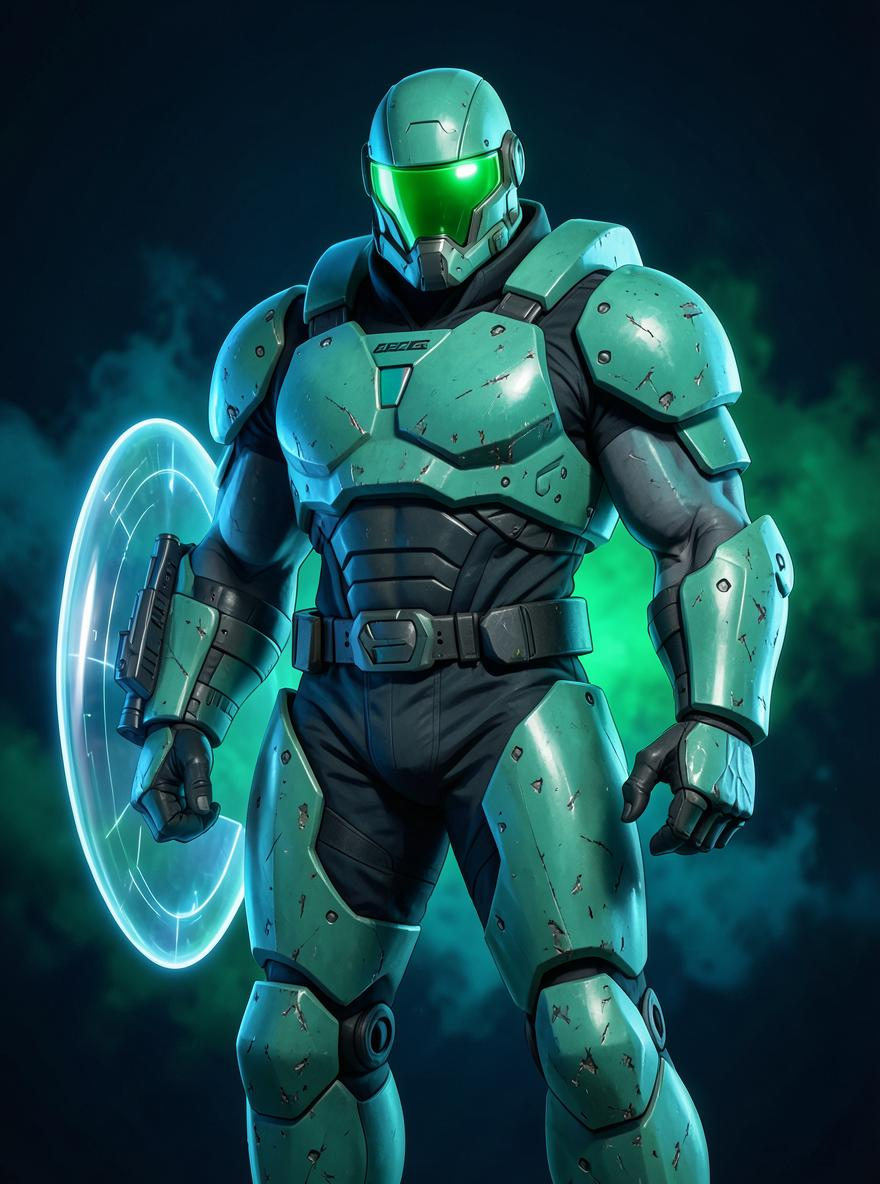
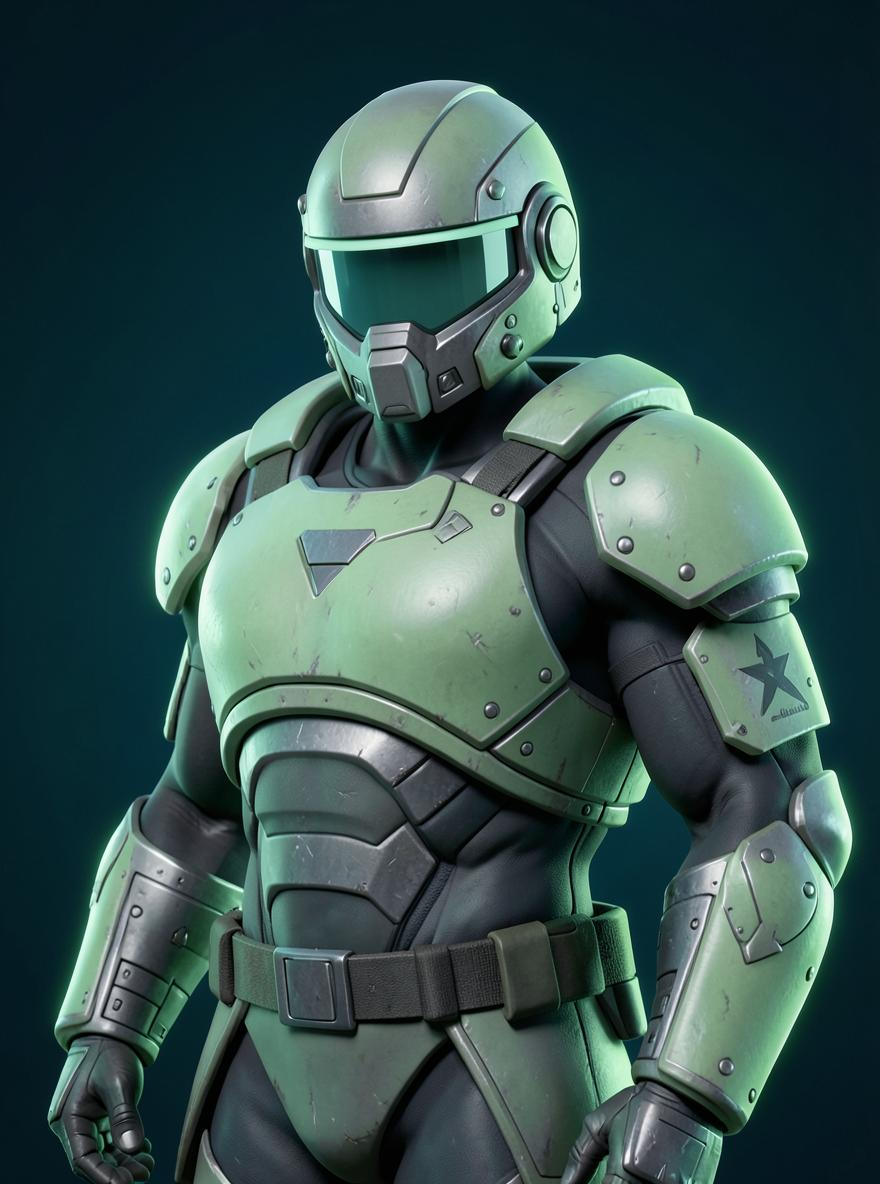
fix: 캐릭터를 전술 헬멧 스타일로 교체하고 소총 그립 자세 수정
얼굴이 드러나던 캐릭터를 팀 컬러 방어구와 밀폐형 헬멧으로 바꾸고 로비 초상화도 같은 방향으로 교체한다. 실제 경기에서 소총이 손에서 떠 보이던 문제를 어깨·팔꿈치·손 관절 자세와 총 위치 조정으로 고친다.

🤖 Generated with Codebuff

diff --git a/client/main.js b/client/main.js
@@ -644,68 +644,126 @@ function makeTxtSprite(text, color, size) {
 
 /* ------------- 리모트 플레이어 ------------- */
 
+const AGENT_ACCENT = {
+  vanguard: 0x58d7ff,
+  rush: 0xff8a5c,
+  guard: 0x6ef0b0,
+  venom: 0xb98cff,
+};
+
 function makePlayerMesh(p) {
   const group = new THREE.Group();
-  const teamCol = new THREE.Color(TEAM_COLOR[p.team]);
-  const pCol = new THREE.Color().setHSL(((p.playerColor || 0) % 360) / 360, 0.7, 0.6);
+  const charId = p.charId || "vanguard";
+  const teamCol = new THREE.Color(TEAM_COLOR[p.team] || TEAM_COLOR.blue);
+  const accentCol = new THREE.Color(AGENT_ACCENT[charId] || 0x7fe7ff);
+  const bulk = charId === "guard" ? 1.1 : charId === "rush" ? 0.94 : 1;
   const armorMat = new THREE.MeshStandardMaterial({
-    color: teamCol.clone().multiplyScalar(0.72), roughness: 0.55, metalness: 0.35,
+    color: teamCol.clone().lerp(new THREE.Color(0xffffff), 0.2).multiplyScalar(0.84),
+    roughness: 0.62, metalness: 0.22,
   });
-  const darkMat = new THREE.MeshStandardMaterial({ color: 0x1b2430, roughness: 0.8, metalness: 0.2 });
+  const plateMat = new THREE.MeshStandardMaterial({
+    color: teamCol.clone().lerp(new THREE.Color(0xffffff), 0.38).multiplyScalar(0.92),
+    roughness: 0.5, metalness: 0.28,
+  });
+  const darkMat = new THREE.MeshStandardMaterial({ color: 0x1a2330, roughness: 0.82, metalness: 0.12 });
   const accentMat = new THREE.MeshStandardMaterial({
-    color: pCol, roughness: 0.45, metalness: 0.35,
-    emissive: pCol.clone().multiplyScalar(0.35), emissiveIntensity: 1,
+    color: accentCol, roughness: 0.4, metalness: 0.35,
+    emissive: accentCol.clone().multiplyScalar(0.2), emissiveIntensity: 0.8,
   });
-  const skinMat = new THREE.MeshStandardMaterial({ color: 0xd8b28a, roughness: 0.9, metalness: 0 });
-  const visorMat = new THREE.MeshBasicMaterial({ color: 0x7fe7ff });
+  const visorMat = new THREE.MeshStandardMaterial({
+    color: accentCol.clone().lerp(new THREE.Color(0xffffff), 0.2),
+    emissive: accentCol, emissiveIntensity: 0.55, roughness: 0.22, metalness: 0.55,
+  });
   const cyl = (rt, rb, h, seg, mat) => new THREE.Mesh(new THREE.CylinderGeometry(rt, rb, h, seg), mat);
 
-  // 다리 / 부츠
+  // 다리 / 무릎·정강이 플레이트 / 부츠 — 피부가 드러나는 부분 없이 전술화한다.
   for (const sx of [-0.17, 0.17]) {
-    const leg = cyl(0.115, 0.14, 0.58, 8, darkMat);
-    leg.position.set(sx, 0.34, 0);
-    const boot = meshBox(0.23, 0.13, 0.34, darkMat);
-    boot.position.set(sx, 0.065, 0.06);
-    const knee = meshBox(0.2, 0.12, 0.22, armorMat);
-    knee.position.set(sx, 0.54, 0.05);
-    group.add(leg, boot, knee);
+    const thigh = cyl(0.13, 0.15, 0.3, 10, darkMat); thigh.position.set(sx, 0.6, 0);
+    const thighPlate = meshBox(0.18, 0.24, 0.16, armorMat); thighPlate.position.set(sx, 0.62, 0.08);
+    const shin = cyl(0.095, 0.12, 0.34, 10, darkMat); shin.position.set(sx, 0.28, 0);
+    const shinPlate = meshBox(0.19, 0.3, 0.16, armorMat); shinPlate.position.set(sx, 0.3, 0.075);
+    const knee = meshBox(0.19, 0.1, 0.21, plateMat); knee.position.set(sx, 0.47, 0.075);
+    const boot = meshBox(0.22, 0.13, 0.35, darkMat); boot.position.set(sx, 0.065, 0.06);
+    const bootCap = meshBox(0.18, 0.06, 0.18, plateMat); bootCap.position.set(sx, 0.1, 0.1);
+    group.add(thigh, thighPlate, shin, shinPlate, knee, boot, bootCap);
   }
 
   // 힙 / 몸통 / 가슴 플레이트
-  const hips = meshBox(0.46, 0.18, 0.3, darkMat); hips.position.y = 0.64;
-  const torso = cyl(0.27, 0.34, 0.58, 8, armorMat); torso.position.y = 0.96;
-  const chest = meshBox(0.56, 0.34, 0.32, armorMat); chest.position.set(0, 1.02, 0.07);
-  const chestGlow = meshBox(0.18, 0.22, 0.02, accentMat); chestGlow.position.set(0, 1.02, 0.24);
-  const belt = meshBox(0.48, 0.07, 0.31, accentMat); belt.position.y = 0.74;
-  group.add(hips, torso, chest, chestGlow, belt);
+  const hips = meshBox(0.48, 0.18, 0.3, darkMat); hips.position.y = 0.7;
+  const pelvisPlate = meshBox(0.34, 0.14, 0.06, plateMat); pelvisPlate.position.set(0, 0.67, 0.24);
+  const torso = cyl(0.22, 0.27, 0.58, 10, darkMat); torso.position.y = 1.04;
+  const chest = meshBox(0.56 * bulk, 0.38, 0.34, armorMat); chest.position.set(0, 1.08, 0.12);
+  const abdomen = meshBox(0.38, 0.2, 0.26, plateMat); abdomen.position.set(0, 0.82, 0.13);
+  const chestStripe = meshBox(0.07, 0.24, 0.03, accentMat); chestStripe.position.set(0, 1.08, 0.3);
+  const belt = meshBox(0.5, 0.06, 0.4, accentMat); belt.position.set(0, 0.78, 0.09);
+  const collar = cyl(0.15, 0.19, 0.12, 10, darkMat); collar.position.y = 1.34;
+  group.add(hips, pelvisPlate, torso, chest, abdomen, chestStripe, belt, collar);
 
-  // 어꺠 / 팔 / 장갑
-  for (const sx of [-1, 1]) {
-    const shoulder = new THREE.Mesh(new THREE.SphereGeometry(0.125, 10, 8), armorMat);
-    shoulder.position.set(sx * 0.35, 1.2, 0);
-    const shoulderGlow = meshBox(0.1, 0.035, 0.12, accentMat);
-    shoulderGlow.position.set(sx * 0.35, 1.31, 0.03);
-    const arm = cyl(0.07, 0.085, 0.46, 8, darkMat);
-    arm.position.set(sx * 0.4, 0.93, 0.02);
-    arm.rotation.z = sx * 0.12;
-    const glove = meshBox(0.1, 0.11, 0.13, darkMat);
-    glove.position.set(sx * 0.42, 0.7, 0.06);
-    group.add(shoulder, shoulderGlow, arm, glove);
+  // 어깨 / 소총을 든 팔 / 장갑 — 손이 총의 그립과 핸드가드에 닿도록 관절을 잡는다.
+  const joint = (x, y, z) => new THREE.Vector3(x, y, z);
+  const limb = (a, b, rt, rb, mat) => {
+    const dir = new THREE.Vector3().subVectors(b, a);
+    const len = Math.max(0.01, dir.length());
+    const mesh = new THREE.Mesh(new THREE.CylinderGeometry(rt, rb, len, 8), mat);
+    mesh.position.copy(a).add(b).multiplyScalar(0.5);
+    mesh.quaternion.setFromUnitVectors(new THREE.Vector3(0, 1, 0), dir.normalize());
+    return mesh;
+  };
+  const rightShoulder = joint(0.36 * bulk, 1.24, 0);
+  const rightElbow = joint(0.43 * bulk, 1.07, 0.08);
+  const rightHand = joint(0.16, 1.0, 0.3);
+  const leftShoulder = joint(-0.36 * bulk, 1.24, 0);
+  const leftElbow = joint(-0.4 * bulk, 1.04, 0.13);
+  const leftHand = joint(-0.1, 0.99, 0.48);
+  for (const [side, shoulderPos, elbowPos, handPos] of [
+    [1, rightShoulder, rightElbow, rightHand],
+    [-1, leftShoulder, leftElbow, leftHand],
+  ]) {
+    const shoulder = new THREE.Mesh(new THREE.SphereGeometry(0.145, 12, 10), armorMat);
+    shoulder.position.copy(shoulderPos); shoulder.scale.setScalar(bulk);
+    const pad = meshBox(0.24 * bulk, 0.09, 0.25, plateMat);
+    pad.position.copy(shoulderPos); pad.position.y += 0.07;
+    const shoulderGlow = meshBox(0.09, 0.03, 0.12, accentMat);
+    shoulderGlow.position.copy(shoulderPos); shoulderGlow.position.z += 0.07;
+    const upperArm = limb(shoulderPos, elbowPos, 0.065, 0.075, darkMat);
+    const elbow = new THREE.Mesh(new THREE.SphereGeometry(0.075, 10, 8), plateMat);
+    elbow.position.copy(elbowPos);
+    const forearm = limb(elbowPos, handPos, 0.055, 0.07, armorMat);
+    const glove = meshBox(0.1, 0.1, 0.14, darkMat); glove.position.copy(handPos);
+    group.add(shoulder, pad, shoulderGlow, upperArm, elbow, forearm, glove);
   }
 
-  // 목 / 헤드 / 헬멧 / 발광 바이저
-  const neck = cyl(0.09, 0.1, 0.12, 8, skinMat); neck.position.y = 1.3;
-  const head = new THREE.Mesh(new THREE.SphereGeometry(0.17, 12, 10), skinMat); head.position.y = 1.48;
-  const helmet = new THREE.Mesh(new THREE.SphereGeometry(0.195, 12, 10), armorMat);
-  helmet.position.set(0, 1.51, -0.02); helmet.scale.y = 0.9;
-  const visor = meshBox(0.3, 0.1, 0.12, visorMat); visor.position.set(0, 1.48, 0.15);
-  const visorFrame = meshBox(0.34, 0.13, 0.02, darkMat); visorFrame.position.set(0, 1.48, 0.09);
-  group.add(neck, head, helmet, visor, visorFrame);
+  // 목 / 완전 밀폐형 헬멧 / 좁은 바이저 — 얼굴과 피부를 노출하지 않는다.
+  const neck = cyl(0.1, 0.12, 0.12, 10, darkMat); neck.position.y = 1.36;
+  const helmet = new THREE.Mesh(new THREE.SphereGeometry(0.195, 16, 12), armorMat);
+  helmet.position.set(0, 1.52, -0.01); helmet.scale.set(1.03, 1.02, 1.03);
+  const visorFrame = meshBox(0.29, 0.11, 0.06, darkMat); visorFrame.position.set(0, 1.54, 0.16);
+  const visor = meshBox(0.24, 0.06, 0.035, visorMat); visor.position.set(0, 1.545, 0.19);
+  const brow = meshBox(0.3, 0.055, 0.07, plateMat); brow.position.set(0, 1.61, 0.13);
+  const jaw = meshBox(0.22, 0.1, 0.09, plateMat); jaw.position.set(0, 1.43, 0.145);
+  const crest = meshBox(0.045, 0.025, 0.2, accentMat); crest.position.set(0, 1.7, -0.02);
+  for (const sx of [-1, 1]) {
+    const ear = cyl(0.06, 0.06, 0.045, 12, darkMat);
+    ear.rotation.z = Math.PI / 2; ear.position.set(sx * 0.19, 1.52, 0);
+    const earLight = cyl(0.035, 0.035, 0.05, 10, accentMat);
+    earLight.rotation.z = Math.PI / 2; earLight.position.set(sx * 0.215, 1.52, 0);
+    group.add(ear, earLight);
+  }
+  group.add(neck, helmet, visorFrame, visor, brow, jaw, crest);
 
-  // 백패 / 백팩 라이트
-  const pack = meshBox(0.4, 0.5, 0.2, darkMat); pack.position.set(0, 1.0, -0.27);
-  const packLight = meshBox(0.16, 0.04, 0.02, accentMat); packLight.position.set(0, 1.14, -0.38);
-  group.add(pack, packLight);
+  if (charId === "venom") {
+    for (const sx of [-1, 1]) {
+      const canister = cyl(0.035, 0.035, 0.13, 8, accentMat);
+      canister.position.set(sx * 0.12, 1.1, 0.23);
+      group.add(canister);
+    }
+  }
+
+  // 백팩 / 백팩 라이트
+  const pack = meshBox(0.4, 0.48, 0.18, darkMat); pack.position.set(0, 1.04, -0.26);
+  const packPlate = meshBox(0.32, 0.28, 0.04, armorMat); packPlate.position.set(0, 1.08, -0.36);
+  const packLight = meshBox(0.12, 0.04, 0.02, accentMat); packLight.position.set(0, 1.24, -0.385);
+  group.add(pack, packPlate, packLight);
 
   // 소총 (오른손)
   const gun = new THREE.Group();
@@ -716,7 +774,9 @@ function makePlayerMesh(p) {
   const mag = meshBox(0.07, 0.18, 0.1, darkMat); mag.position.set(0, -0.13, 0.02);
   const gunGlow = meshBox(0.11, 0.02, 0.3, accentMat); gunGlow.position.set(0, 0.08, 0.03);
   gun.add(receiver, barrel, stock, mag, gunGlow);
-  gun.position.set(0.34, 1.03, 0.28);
+  gun.scale.setScalar(0.86);
+  gun.position.set(0.02, 1.02, 0.4);
+  gun.rotation.x = 0.02;
   group.add(gun);
 
   // 발밑 팀 링
@@ -2551,7 +2611,10 @@ function animate(now) {
     if (ent.vx || ent.vz) { ex += ent.vx * extrap * 2; ez += ent.vz * extrap * 2; }
     g.position.x += (ex - g.position.x) * t;
     g.position.z += (ez - g.position.z) * t;
-    g.position.y += (ent.target.y - g.position.y) * t;
+    const moving = ent.alive && Math.hypot(ent.vx || 0, ent.vz || 0) > 0.6;
+    ent.walkPhase = (ent.walkPhase || 0) + dt * (moving ? 9 : 2);
+    const bob = Math.sin(ent.walkPhase) * (moving ? 0.022 : 0.006);
+    g.position.y += (ent.target.y + bob - g.position.y) * t;
     g.rotation.y += angDiff(ent.target.yaw, g.rotation.y) * t;
   }
 

diff --git a/client/lobby.css b/client/lobby.css
@@ -125,10 +125,10 @@
 .agent-art {
   position: absolute; inset: 0;
   background-size: cover; background-position: center 20%;
-  filter: grayscale(.35) brightness(.72);
+  filter: saturate(1.08) brightness(.9);
   transition: transform .35s ease, filter .25s ease;
 }
-.agent-card:hover .agent-art { transform: scale(1.06); filter: grayscale(0) brightness(.95); }
+.agent-card:hover .agent-art { transform: scale(1.06); filter: saturate(1.16) brightness(1.02); }
 .agent-shade { position: absolute; inset: 0; background: linear-gradient(180deg, transparent 32%, rgba(3, 7, 14, .94) 100%); }
 .agent-meta { position: absolute; left: 9px; right: 7px; bottom: 8px; z-index: 2; display: flex; flex-direction: column; gap: 1px; }
 .agent-role { font-size: 7px; letter-spacing: 1.7px; font-weight: 900; color: var(--agent-color, #5fe7ff); }
@@ -142,7 +142,7 @@
   opacity: 0; transform: scale(.6); transition: opacity .15s, transform .15s;
 }
 .agent-card.sel { border-color: var(--agent-color); box-shadow: inset 0 0 0 1px var(--agent-color), 0 0 28px -7px var(--agent-color); }
-.agent-card.sel .agent-art { filter: saturate(1.15) brightness(1); transform: scale(1.04); }
+.agent-card.sel .agent-art { filter: saturate(1.2) brightness(1.02); transform: scale(1.04); }
 .agent-card.sel .agent-check { opacity: 1; transform: scale(1); }
 .agent-card.pop { animation: pickpop .3s ease-out; }
 
@@ -175,15 +175,15 @@
 .showcase-portrait {
   position: absolute; inset: 0;
   background-size: cover; background-position: center 16%;
-  filter: saturate(1.12) contrast(1.04);
+  filter: saturate(1.06) contrast(1.02);
   transform: scale(1.01);
   transition: background-image .2s ease;
 }
 .showcase-fade {
   position: absolute; inset: 0;
   background:
-    linear-gradient(90deg, rgba(3, 7, 14, .93) 0%, rgba(3, 7, 14, .38) 42%, transparent 70%),
-    linear-gradient(180deg, transparent 42%, rgba(3, 7, 14, .95) 100%);
+    linear-gradient(90deg, rgba(3, 7, 14, .9) 0%, rgba(3, 7, 14, .26) 46%, transparent 72%),
+    linear-gradient(180deg, transparent 48%, rgba(3, 7, 14, .92) 100%);
 }
 .showcase-copy { position: absolute; left: 22px; right: 22px; bottom: 16px; z-index: 2; }
 .showcase-role {

diff --git a/client/index.html b/client/index.html
@@ -6,7 +6,7 @@
   <title>Shooter — 5v5 전술 슈터</title>
   <link rel="icon" type="image/svg+xml" href="favicon.svg" />
   <link rel="stylesheet" href="style.css" />
-  <link rel="stylesheet" href="lobby.css" />
+  <link rel="stylesheet" href="lobby.css?v=2" />
   <link rel="stylesheet" href="game-ui.css" />
 </head>
 <body>
@@ -376,6 +376,6 @@
   </div>
 
   <script src="/vendor/socket.io/client-dist/socket.io.min.js"></script>
-  <script type="module" src="main.js"></script>
+  <script type="module" src="main.js?v=3"></script>
 </body>
 </html>
